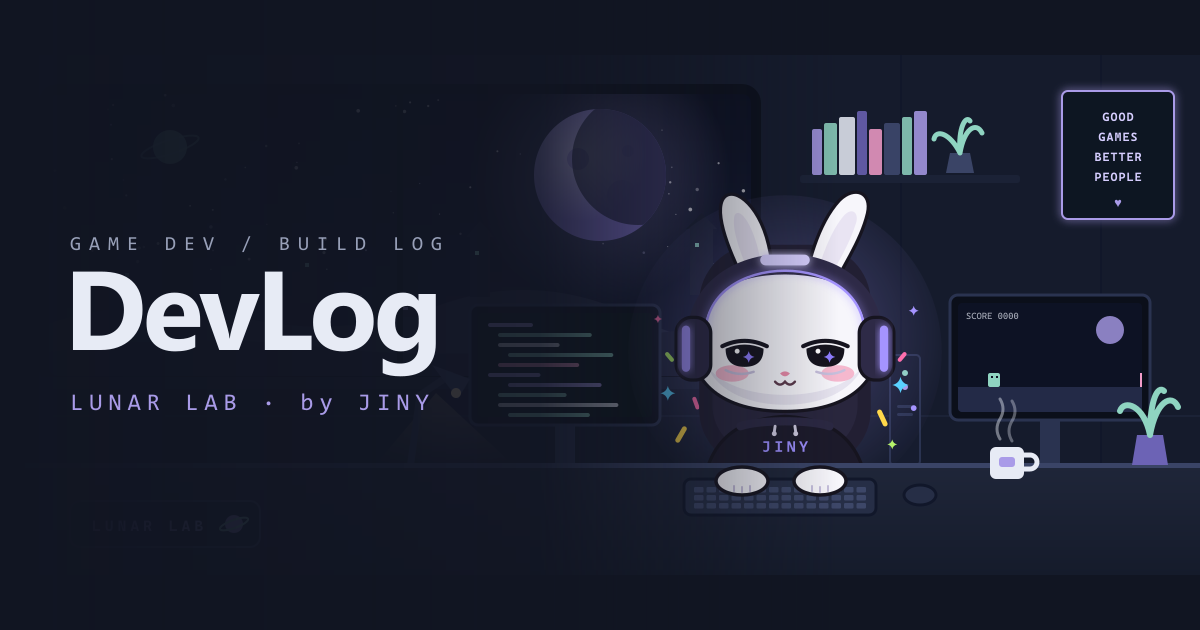
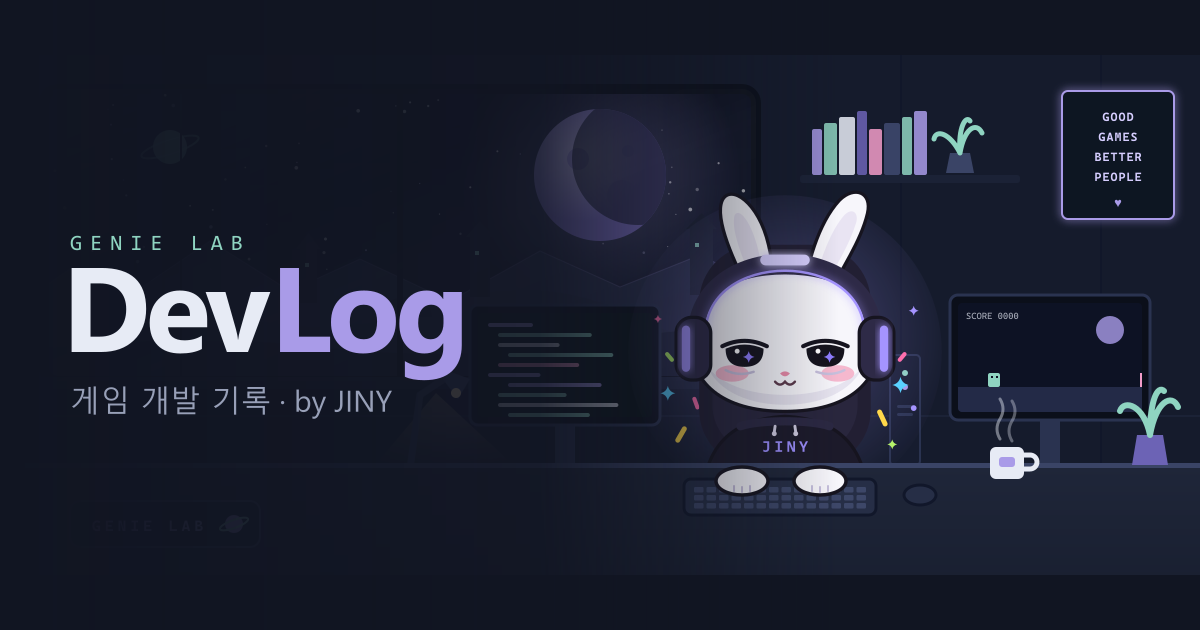
히어로 문구 단순화, GENIE LAB 로 이름 변경, 글 목록을 갤러리로
- 히어로: 'GENIE LAB / DevLog / 게임 개발 기록' 만 남김
- LUNAR LAB → GENIE LAB (사이드바, 장면 명판, OG 이미지, giscus 테마, README)
- 글 목록을 이미지 중심 갤러리로: 커버가 타일을 꽉 채우고 제목이 위에 얹힘
  - 첫 장 2×2, 가로·세로로 긴 타일을 섞는 규칙(src/lib/gallery.ts), 필터·정렬 후 다시 배치
  - 올리면 이미지 확대·그늘 짙어짐·설명과 ▶ OPEN 등장·3D 기울기와 빛 반사, 스크롤하면 차례로 등장
  - 홈·북마크·태그·연대기에 적용, 쓰지 않게 된 VideoCard·PostListItem 삭제

diff --git a/src/styles/global.css b/src/styles/global.css
@@ -261,3 +261,16 @@ a.badge-outline:hover { border-color: var(--brand); background: var(--accent); }
 @keyframes wiggle { 30% { rotate: -12deg; scale: 1.12; } 65% { rotate: 8deg; } }
 /* 입력칸 포커스 빛 */
 input:focus-visible, select:focus-visible { outline: none; box-shadow: 0 0 0 3px var(--brand-soft); }
+
+/* ─── 갤러리(글 목록 공통) — 타일 크기는 src/lib/gallery.ts ─── */
+.gallery { display: grid; gap: 16px; grid-template-columns: repeat(3, minmax(0, 1fr)); grid-auto-rows: 220px; grid-auto-flow: dense; }
+.gallery > .tile.big { grid-column: span 2; grid-row: span 2; }
+.gallery > .tile.tall { grid-row: span 2; }
+.gallery > .tile.wide { grid-column: span 2; }
+@media (max-width: 1099px) { .gallery { grid-template-columns: repeat(2, minmax(0, 1fr)); grid-auto-rows: 210px; } }
+@media (max-width: 639px) {
+  .gallery { grid-template-columns: 1fr; grid-auto-rows: 240px; }
+  .gallery > .tile.big { grid-column: auto; grid-row: span 2; }
+  .gallery > .tile.wide { grid-column: auto; }
+  .gallery > .tile.tall { grid-row: span 1; }
+}

diff --git a/src/lib/gallery.ts b/src/lib/gallery.ts
@@ -1,0 +1,20 @@
+// 갤러리 타일 크기 규칙. 서버(첫 화면)와 브라우저(필터·정렬 후 재배치)가 같은 규칙을 쓴다.
+// 보이는 순서 기준: 첫 장은 크게(2×2), 이후 6장마다 가로로 긴 것 하나·세로로 긴 것 하나를 섞어 리듬을 준다.
+// ⚠ 4번째를 세로로 길게 두면 글이 4편일 때 옆이 크게 빈다. 가로로 두면 빈칸이 많아야 한 칸이다.
+export type TileSize = 'big' | 'tall' | 'wide' | '';
+
+export function tileSize(i: number, withBig = true): TileSize {
+  if (i === 0 && withBig) return 'big';
+  if (i % 6 === 3) return 'wide';
+  if (i % 6 === 5) return 'tall';
+  return '';
+}
+
+/** 필터·정렬로 보이는 카드가 바뀌면 다시 크기를 매긴다 */
+export function relayout(visible: HTMLElement[], withBig = true) {
+  visible.forEach((el, i) => {
+    el.classList.remove('big', 'tall', 'wide');
+    const s = tileSize(i, withBig);
+    if (s) el.classList.add(s);
+  });
+}

diff --git a/src/scripts/scene.ts b/src/scripts/scene.ts
@@ -2,7 +2,7 @@ import { animate, createTimeline, onScroll, stagger, steps } from 'animejs';
 import { reduced } from './fx';
 import { startSky } from './sky';
 
-// LUNAR LAB 히어로 장면(anime.js v4). 부위 class 는 src/lib/scene.mjs, 레이어 구조는 HeroScene.astro 참고.
+// GENIE LAB 히어로 장면(anime.js v4). 부위 class 는 src/lib/scene.mjs, 레이어 구조는 HeroScene.astro 참고.
 export function animateScene(root: HTMLElement) {
   const sky = root.querySelector<HTMLCanvasElement>('[data-sky]');
   if (sky) startSky(sky, root);

diff --git a/src/styles/tokens.css b/src/styles/tokens.css
@@ -1,5 +1,5 @@
 /*
- * LUNAR LAB 팔레트 — shadcn/ui 식 시맨틱 토큰(표면 --x / 그 위 글자 --x-foreground) + 차트 --chart-1…5.
+ * GENIE LAB 팔레트 — shadcn/ui 식 시맨틱 토큰(표면 --x / 그 위 글자 --x-foreground) + 차트 --chart-1…5.
  * 밤(기본 인상): Background #111522 · Surface #1C2335 · Lavender #A99BE8 · Mint #8FD4C1 · Text #E7EBF5
  * 낮: 같은 색상을 달빛 종이 위로 옮긴 버전.
  */

diff --git a/public/giscus/light.css b/public/giscus/light.css
@@ -1,4 +1,4 @@
-/* Generated by scripts/giscus-theme.mjs — LUNAR LAB light */
+/* Generated by scripts/giscus-theme.mjs — GENIE LAB light */
 @import url('https://giscus.app/themes/light.css');
 
 main {

diff --git a/public/giscus/dark.css b/public/giscus/dark.css
@@ -1,4 +1,4 @@
-/* Generated by scripts/giscus-theme.mjs — LUNAR LAB dark */
+/* Generated by scripts/giscus-theme.mjs — GENIE LAB dark */
 @import url('https://giscus.app/themes/dark.css');
 
 main {

diff --git a/README.md b/README.md
@@ -2,7 +2,7 @@
 
 Unreal Engine 게임 클라이언트 개발 기록. **https://geniedevice.github.io/DevLog_Genie/**
 
-**LUNAR LAB** 콘셉트(달 기지 작업실)의 게임 개발 블로그. 대표 캐릭터 **JINY**(보라 헤드폰을 쓴 흰 토끼)가 주인공인 Astro 정적 사이트입니다.
+**GENIE LAB** 콘셉트(달 기지 작업실)의 게임 개발 블로그. 대표 캐릭터 **JINY**(보라 헤드폰을 쓴 흰 토끼)가 주인공인 Astro 정적 사이트입니다.
 글 목록은 유튜브식 **16:9 썸네일 그리드**, 글 페이지는 시청 페이지 구성, **통계** 페이지에는 차트와 데이터 표가 있습니다.
 `main` 에 push 하면 GitHub Actions 가 빌드해서 GitHub Pages 로 배포합니다.
 
